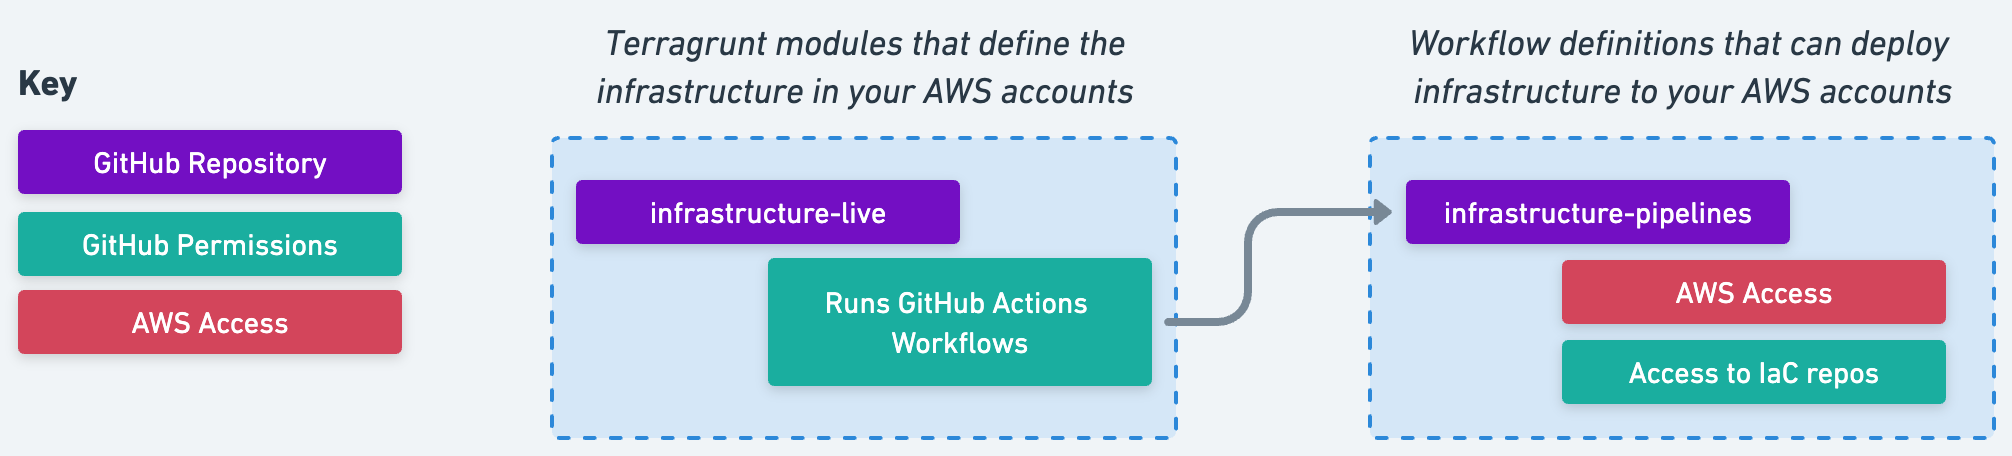
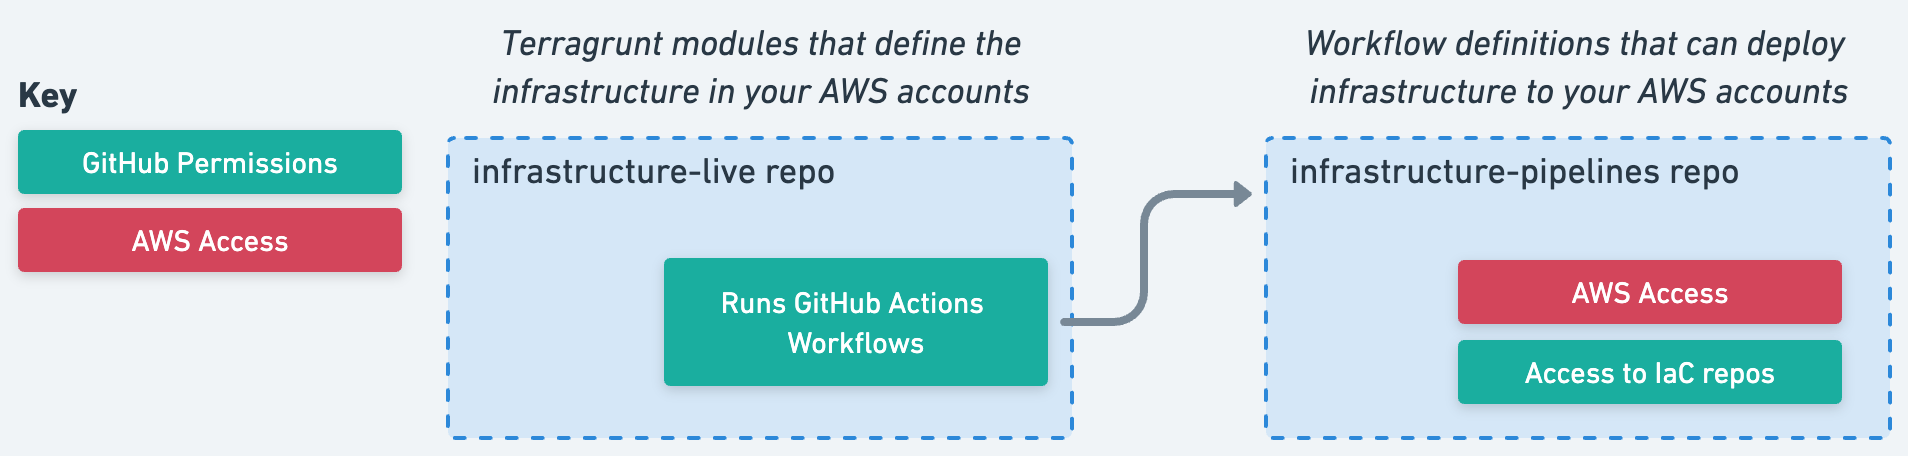
update prose to include information on accessing aws

diff --git a/docs/pipelines/overview/index.md b/docs/pipelines/overview/index.md
@@ -8,7 +8,7 @@ Due to the necessity of having administrative permissions in your CI system to d
 
 This allows your team to have many collaborators for your IaC in your `infrastructure-live` repository, while permitting a subset of administrators access to the workflows in `infrastructure-pipelines` that can access your AWS environments.
 
-Workflows running in the `infrastructure-live` repository trigger workflows to run in `infrastructure-pipelines`, which runs the appropriate terragrunt command on the changed code to perform changes to your infrastructure.
+Workflows running in the `infrastructure-live` repository trigger workflows to run in `infrastructure-pipelines`, which runs the appropriate terragrunt command on the changed code to perform changes to your infrastructure. Pipelines uses OIDC to assume a role in your AWS account with a policy that limits access exclusively to the `main` branch of your `infrastructure-pipelines` repository. No other repository or branch can leverage this role to gain access to your AWS accounts.
 
 ![Gruntwork Pipelines Architecture](/img/pipelines/how-it-works/pipelines_architecture.png)
 
@@ -20,6 +20,6 @@ You are reading documentation for Gruntwork Pipelines. The previous version of G
 <!-- ##DOCS-SOURCER-START
 {
   "sourcePlugin": "local-copier",
-  "hash": "72b9f97169dfe04086a658db205aa770"
+  "hash": "36fe1af346d507fa5de16adfd73aa3d8"
 }
 ##DOCS-SOURCER-END -->

diff --git a/_docs-sources/pipelines/overview/index.md b/_docs-sources/pipelines/overview/index.md
@@ -8,7 +8,7 @@ Due to the necessity of having administrative permissions in your CI system to d
 
 This allows your team to have many collaborators for your IaC in your `infrastructure-live` repository, while permitting a subset of administrators access to the workflows in `infrastructure-pipelines` that can access your AWS environments.
 
-Workflows running in the `infrastructure-live` repository trigger workflows to run in `infrastructure-pipelines`, which runs the appropriate terragrunt command on the changed code to perform changes to your infrastructure.
+Workflows running in the `infrastructure-live` repository trigger workflows to run in `infrastructure-pipelines`, which runs the appropriate terragrunt command on the changed code to perform changes to your infrastructure. Pipelines uses OIDC to assume a role in your AWS account with a policy that limits access exclusively to the `main` branch of your `infrastructure-pipelines` repository. No other repository or branch can leverage this role to gain access to your AWS accounts.
 
 ![Gruntwork Pipelines Architecture](/img/pipelines/how-it-works/pipelines_architecture.png)
 
